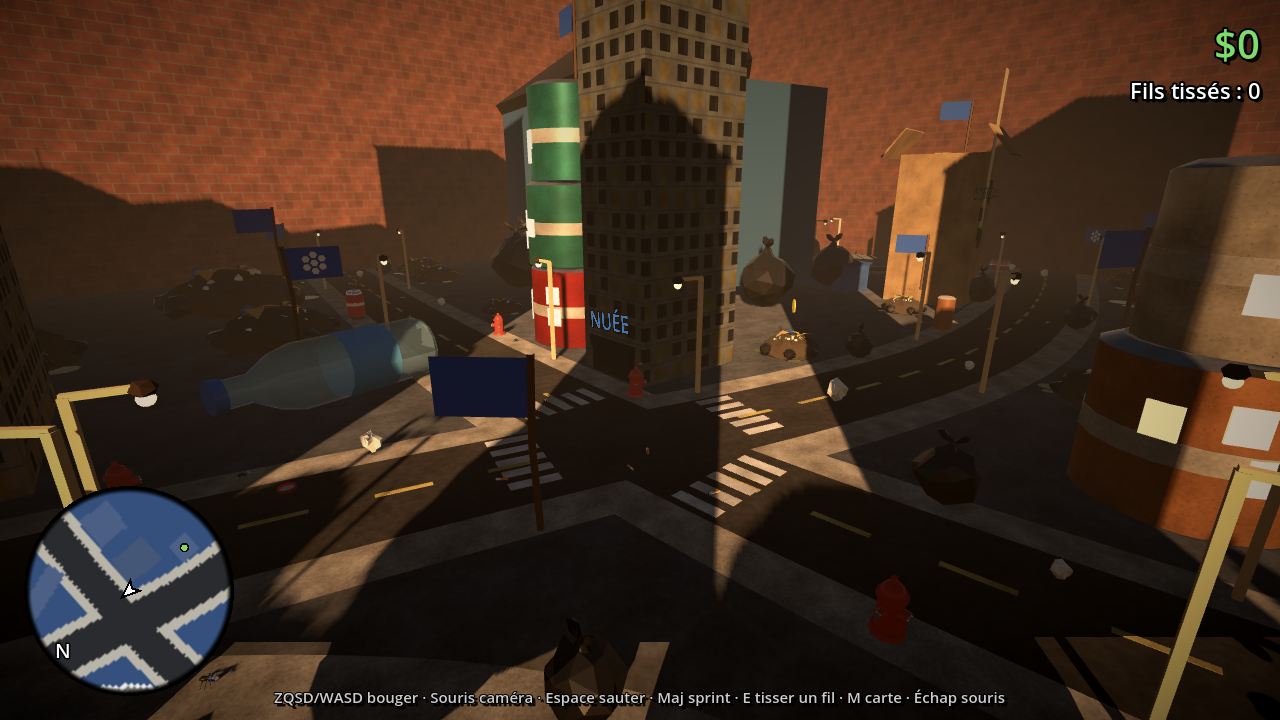
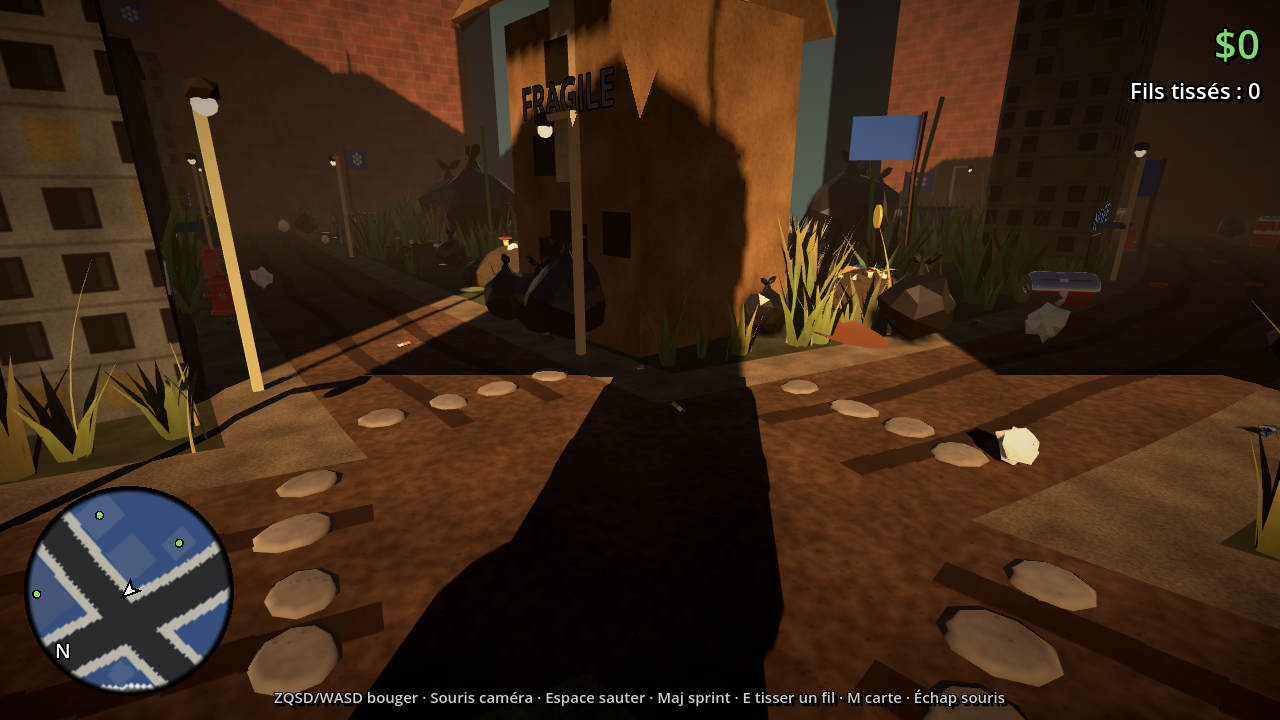
Chemins en terre battue et terrain vague herbeux
Claude-Session: https://claude.ai/code/session_01B9s6QRz2AjPQ3ctkbFFHFF

diff --git a/MAP.md b/MAP.md
@@ -13,8 +13,10 @@ Projet **Godot 4.4** (renderer Compatibility, exportable en web). Ouvrir `projec
 
 ## Les quartiers et les gangs
 
-Pas de grille : 14 rues courbes (avenues, boulevard en diagonale, ruelles tortueuses) avec trottoirs,
-passages piétons à l'entrée des carrefours et pointillés au centre. Les immeubles sont alignés le long des rues,
+Pas de grille : 14 chemins de terre battue courbes (avenues, boulevard en diagonale, ruelles tortueuses)
+bordés de gravier, avec des ornières et des pas japonais en cailloux plats à l'entrée des carrefours.
+Entre les bâtiments pousse un terrain vague : près de 10 000 touffes d'herbe, plus des trèfles, des pissenlits,
+des feuilles mortes et des champignons. Les immeubles sont alignés le long des rues,
 façade vers la chaussée, puis l'arrière des îlots est rempli. Les quartiers ont des frontières qui serpentent ;
 quand une rue entre dans un territoire, une borne et une bande de peinture aux couleurs du gang le signalent.
 Chaque quartier est teinté de la couleur de son gang au sol, sur le radar et sur la carte (touche **M**).
